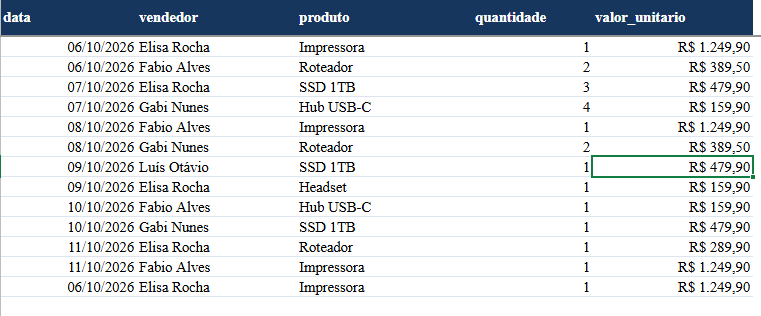
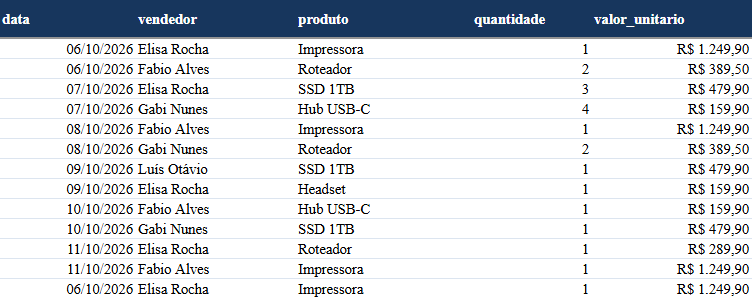
Atualiza imagem de exemplo da planilha no README

Changed region(s): [[0.0, 0.0, 1.0, 0.9966]]

diff --git a/README.md b/README.md
@@ -176,7 +176,7 @@ O workflow é CI: ele valida e constrói, mas **não publica uma imagem em regis
 
 ### Publicar este projeto pelo VS Code
 
-1. Abra no VS Code a pasta `relatorio-automatico`, que é a raiz deste projeto.
+1. Abra no VS Code a pasta `SalesFlow`, que é a raiz deste projeto.
 2. Em **Source Control**, clique em **Initialize Repository**.
 3. Revise os arquivos antes do commit. Os exemplos de demonstração ficam em `examples/` e podem ser versionados. O `.gitignore` exclui `data/` e `exports/`, que contêm dados de execução, planilhas importadas e projetos Power BI gerados.
 4. Faça o primeiro commit com o aplicativo, o workflow, os exemplos e a documentação.
@@ -189,4 +189,5 @@ O workflow é CI: ele valida e constrói, mas **não publica uma imagem em regis
 - `examples/vendas_com_erros.xlsx`: planilha com dados para exercitar a revisão de linhas.
 
 Use apenas dados de teste ao compartilhar capturas, logs ou execuções no GitHub.
+
 
